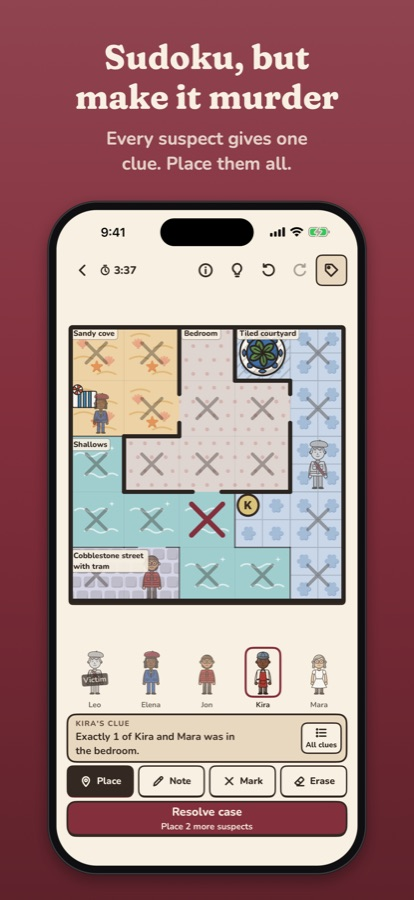
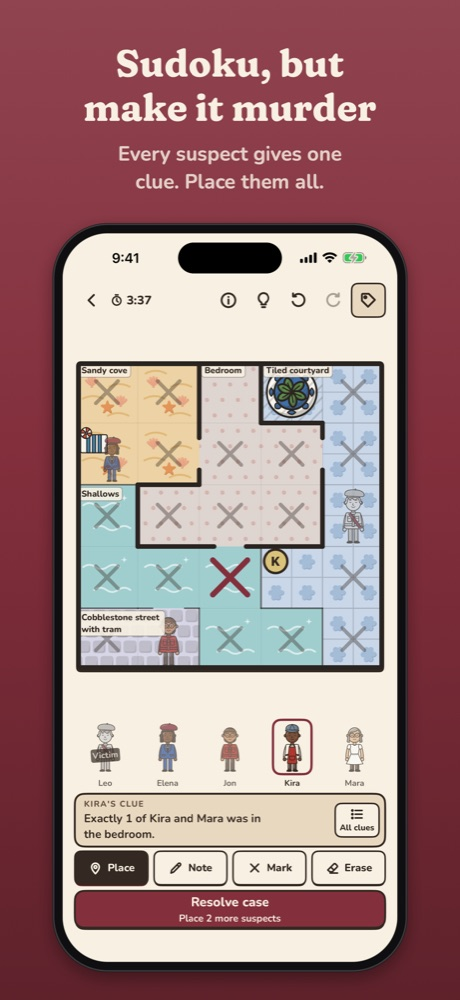
Whodoku home: phone-only screenshot

Changed region(s): [[0.2029, 0.8089, 0.2609, 0.84], [0.7246, 0.8089, 0.7536, 0.84]]

diff --git a/whodoku/style.css b/whodoku/style.css
@@ -266,7 +266,9 @@ tr + tr td { border-top: 1px dashed var(--muted); }
 /* ---------- Home ---------- */
 .split { display: grid; grid-template-columns: 1fr; gap: 28px; align-items: center; }
 .shot { max-width: 320px; margin: 0 auto; }
-.shot img { display: block; width: 100%; border-radius: 22px; border: 3px solid var(--wall); box-shadow: 0 6px 0 var(--wall); }
+.shot img { display: block; width: 100%; height: auto; }
+.hero-body.split { padding-bottom: 0; }
+.hero-body.split > div:first-child { padding-bottom: 32px; }
 .cta { display: flex; flex-wrap: wrap; gap: 12px; margin-top: 24px; }
 .links-grid { display: grid; grid-template-columns: 1fr; gap: 16px; }
 .link-card { display: flex; align-items: center; gap: 16px; color: var(--ink); text-decoration: none; }

diff --git a/whodoku/index.html b/whodoku/index.html
@@ -32,7 +32,7 @@
             <span class="stamp">One solution</span>
           </div>
         </div>
-        <div class="shot"><img src="assets/screenshot-case.jpg" alt="A Whodoku case: a floor plan with rooms, suspects and a clue" width="414" height="900"></div>
+        <div class="shot"><img src="assets/screenshot-case.jpg" alt="A Whodoku case: a floor plan with rooms, suspects and a clue" width="460" height="1000"></div>
       </div>
     </div>
   </div>
